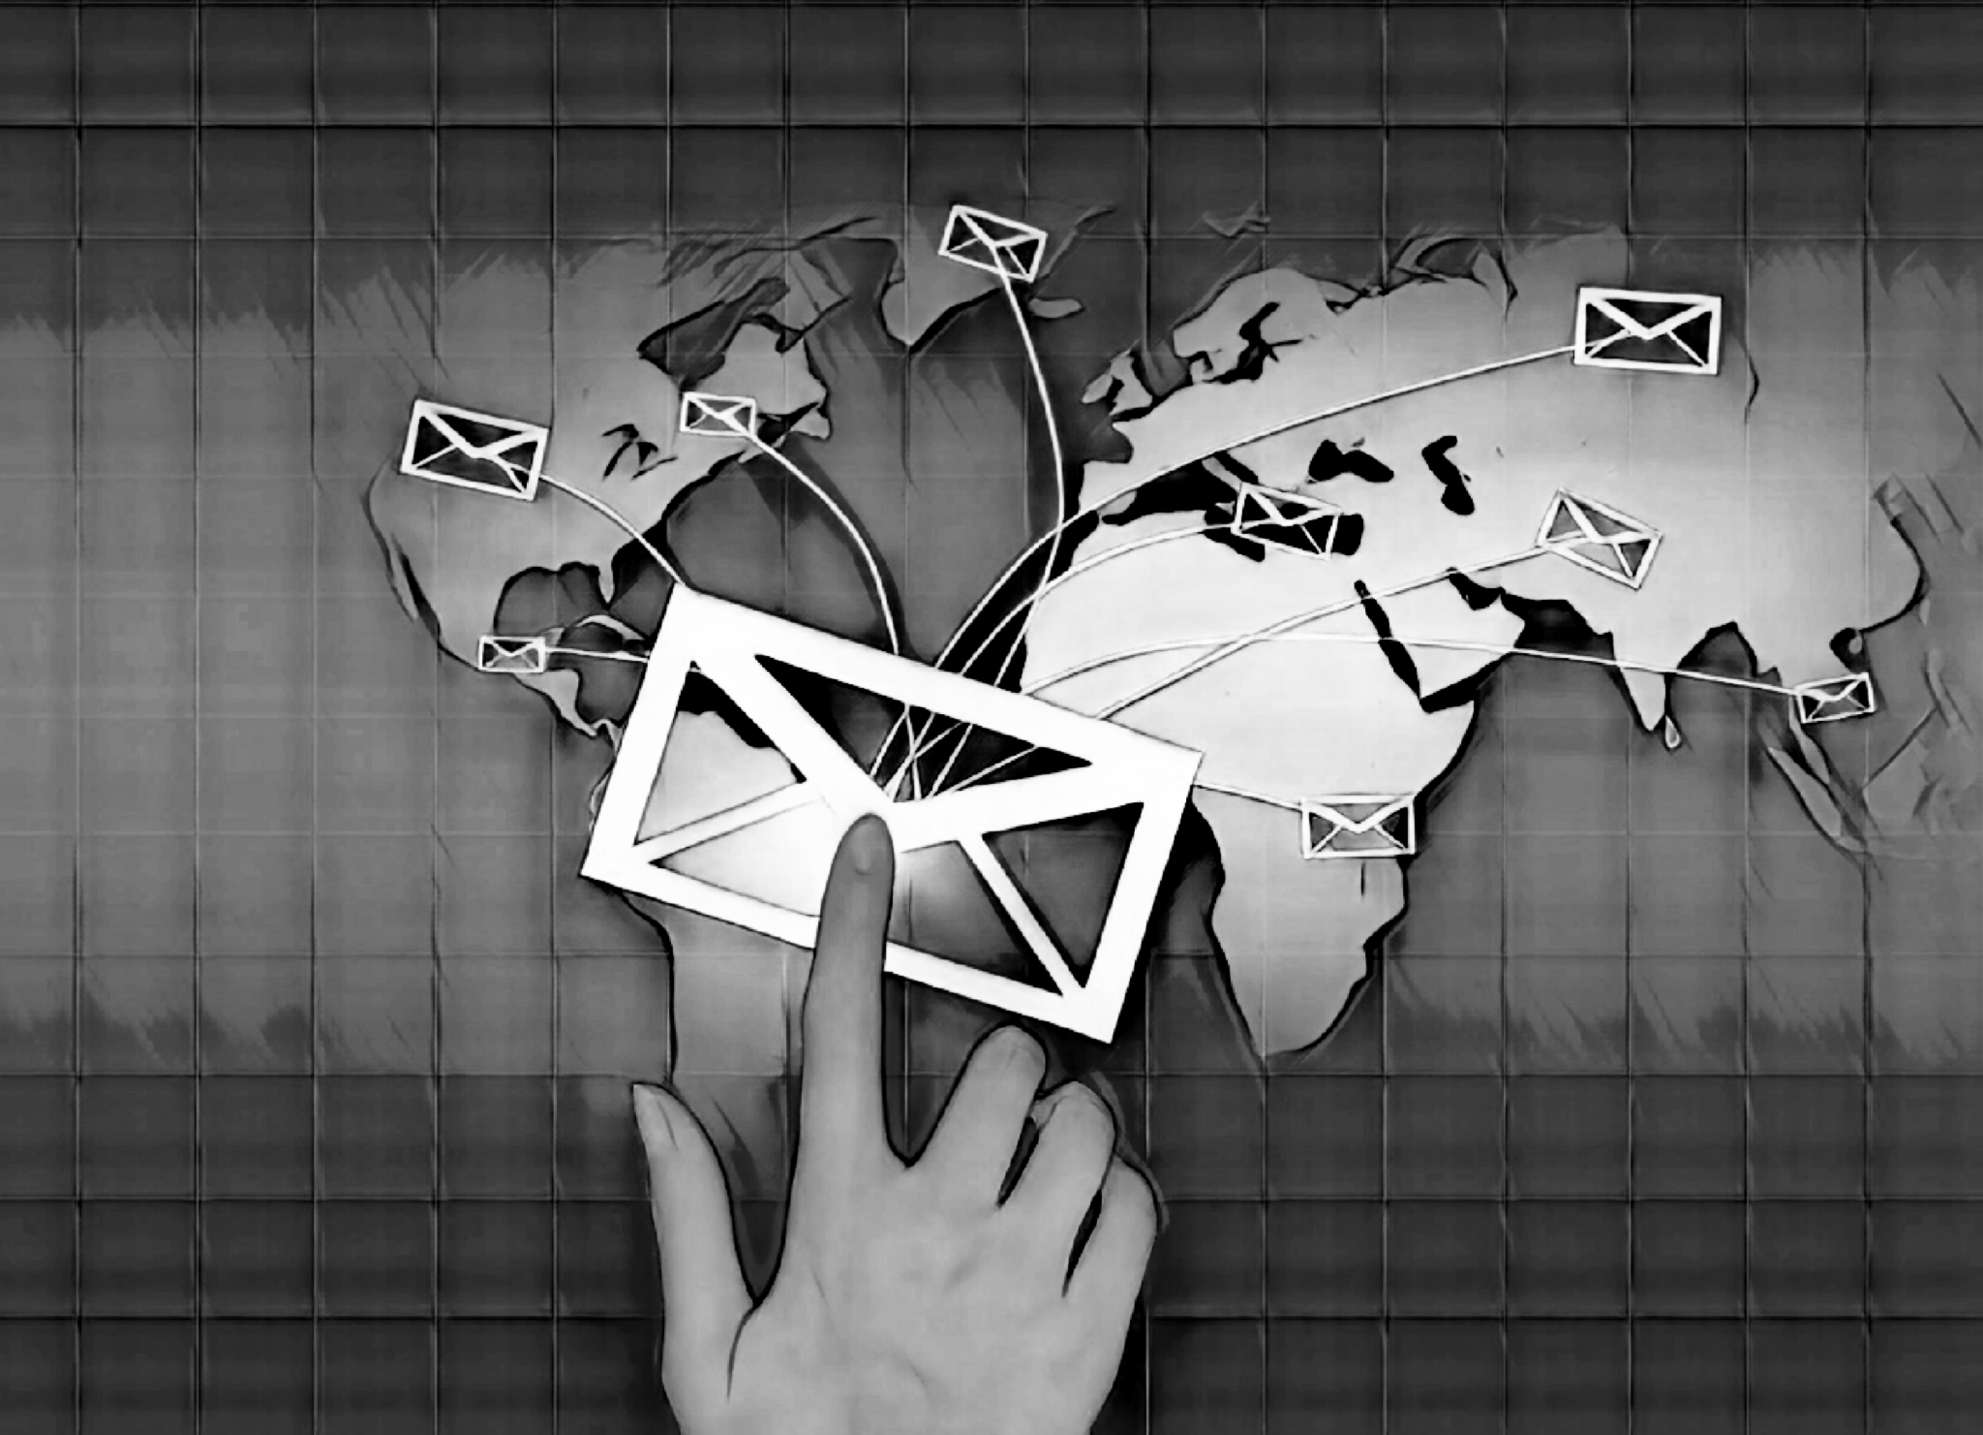
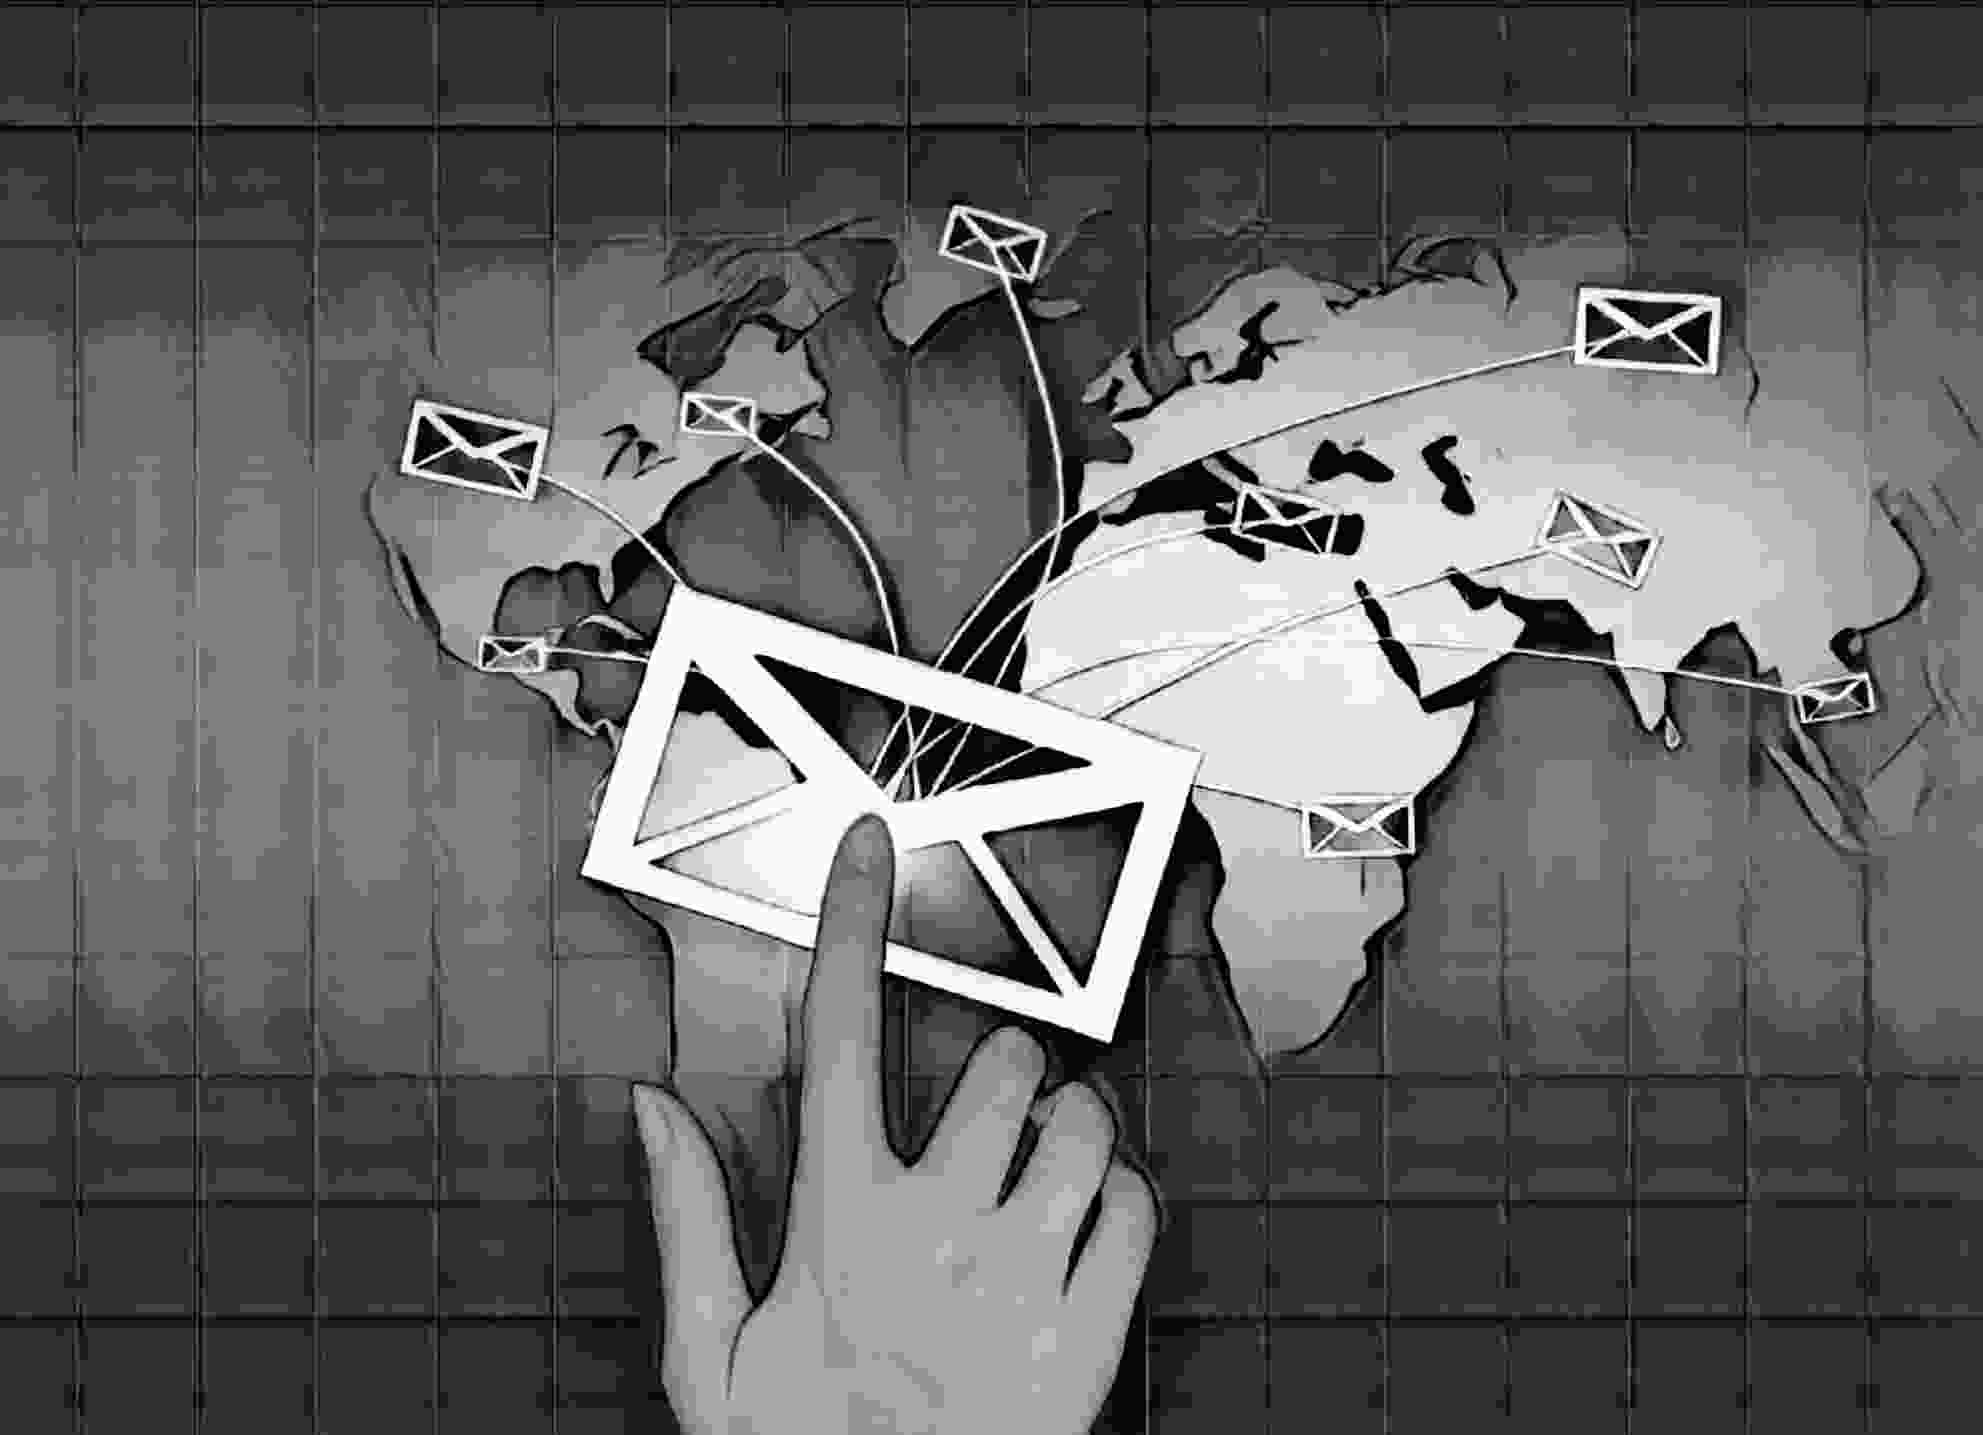
Index page optimized

diff --git a/assets/css/main.css b/assets/css/main.css
@@ -35,7 +35,7 @@
 
 .about__bkgrnd {
   background-image: url("../images/about_me.png");
-  filter: contrast(250%);
+  filter: contrast(200%);
 }
 
 .projects__bkgrnd {
@@ -45,12 +45,12 @@
 
 .algorithms__bkgrnd {
   background-image: url("../images/resume.png");
-  filter: contrast(150%);
+  filter: contrast(100%);
 }
 
 .contact__bkgrnd {
   background-image: url("../images/contact.png");
-  filter: contrast(100%);
+  filter: contrast(120%);
 }
 
 .glitch__img:nth-child(n + 2) {
